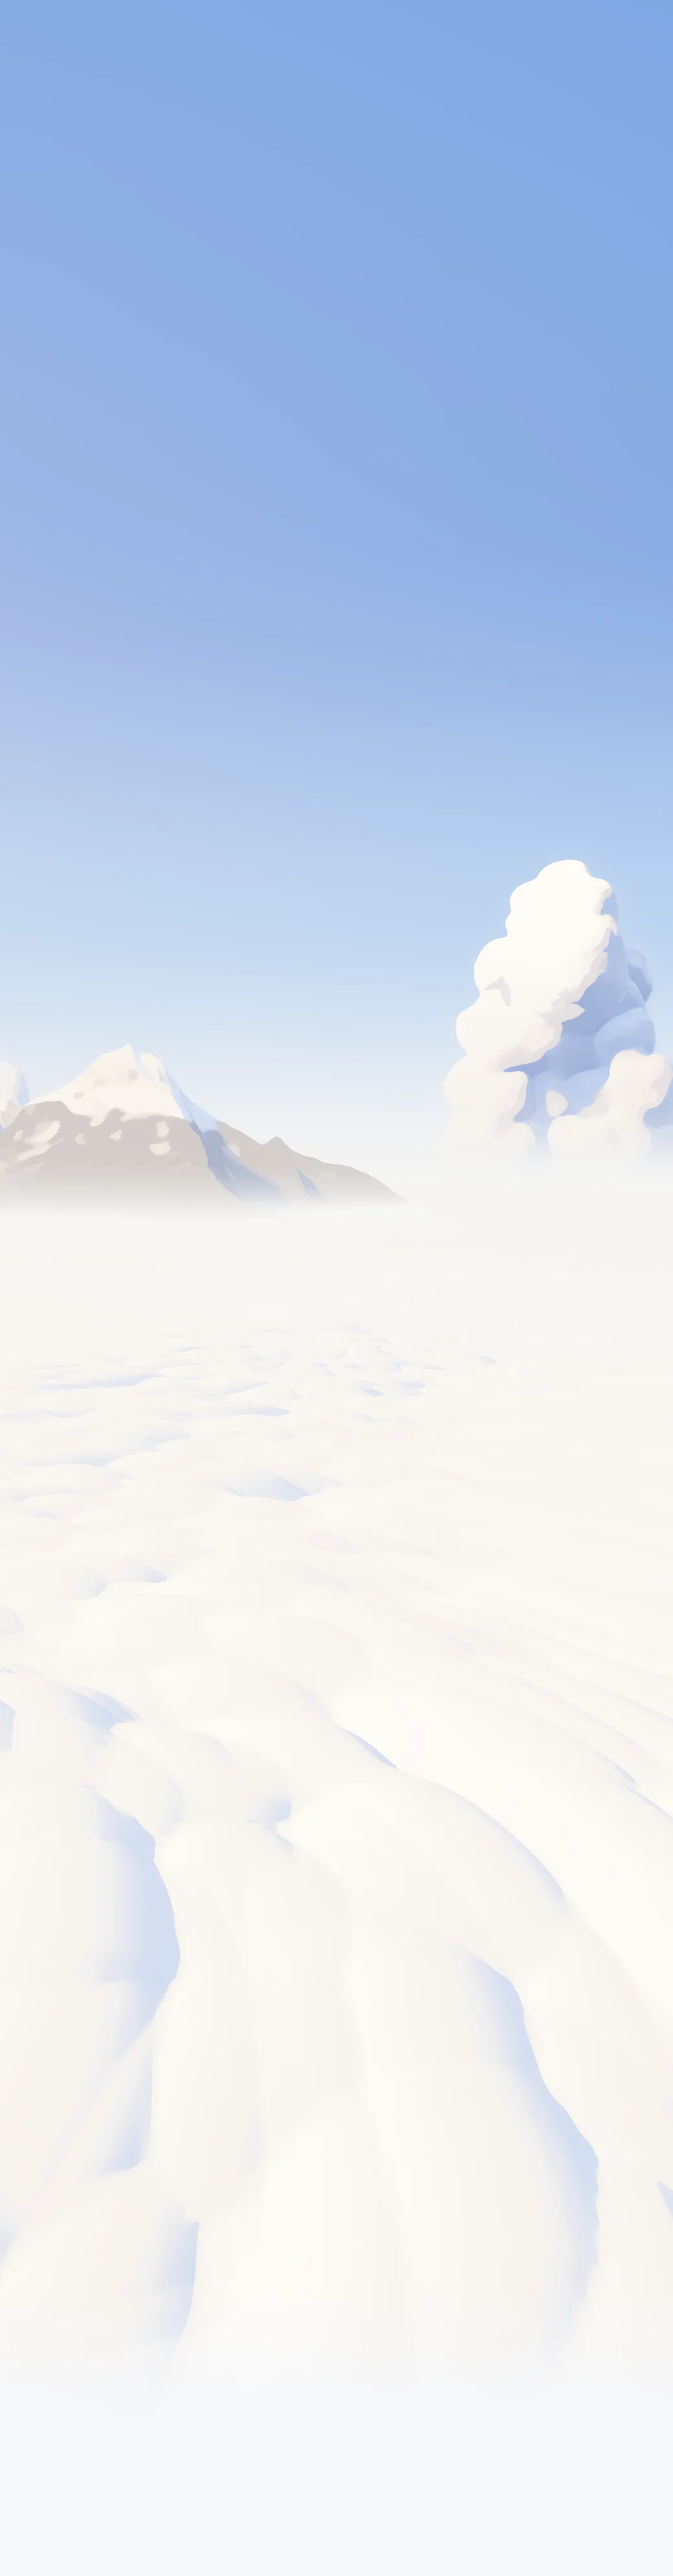
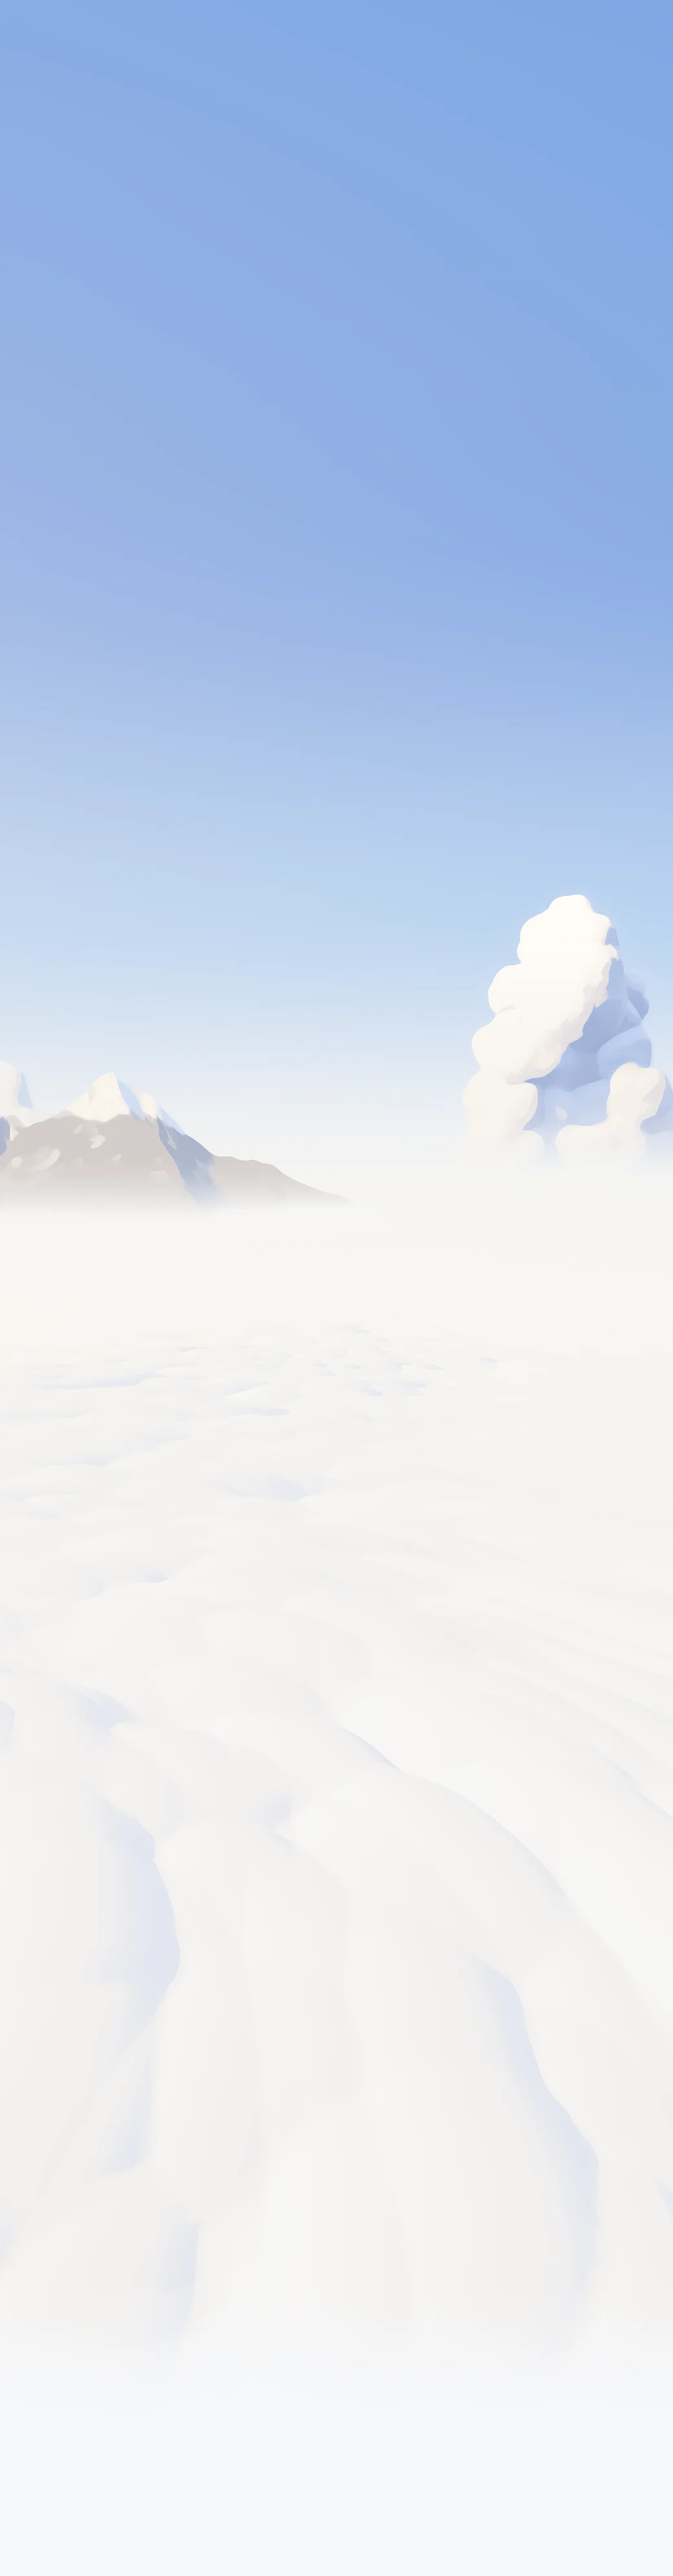
Add production hero: painted sky, glass product composition
Raymarched sky with a brush paint pass, baked to WebP stills at 1x and
2x for desktop, tablet and phone. Live bake only where the still would
upscale; never on software GL. Nav links move into a glass pill.

Claude-Session: https://claude.ai/code/session_01WzuXxBvKBCaxNgCh2gAtvf

diff --git a/landing/js/art/sky.js b/landing/js/art/sky.js
@@ -390,6 +390,7 @@ vec3 seaShade(vec3 p, float t, vec2 w){
   float near = 1.0 - smoothstep(5.0, 24.0, t);
   col = mix(col, mix(litC, P_seaShHi, 0.25), near * 0.55);
   vec3 c = toLin(col);
+  c *= 1.0 + uMood.w;
   float hz = 1.0 - exp(-t * 0.026);
   hz = max(hz, smoothstep(40.0, 100.0, t));
   return mix(c, seaHaze(w), clamp(hz, 0.0, 1.0));
@@ -501,6 +502,10 @@ uniform vec2 uPad;
 uniform float uRadius;
 uniform float uHard;
 uniform float uMix;
+uniform vec2 uOrigin;   // this canvas inside the composition, in pixels from the bottom-left
+uniform vec2 uFull;
+uniform vec3 uFrame;    // aspect, horizon, span
+uniform float uStars;
 out vec4 o;
 
 float hash12(vec2 p){
@@ -576,6 +581,20 @@ void main(){
   }
   vec3 painted = acc.w > 0.0 ? acc.rgb / acc.w : src.rgb;
   vec3 col = mix(src.rgb, painted, uMix);
+  // stars, after the paint so the brush cannot wipe them out; only in open sky
+  if (uStars > 0.0) {
+    vec2 fp = gl_FragCoord.xy + uOrigin;
+    float wy = (fp.y / uFull.y - uFrame.y) * uFrame.z;
+    float cell = uFull.y * 0.011;
+    vec2 g = fp / cell, id = floor(g), f = fract(g);
+    float h = hash12(id + 11.0);
+    if (h > 0.93) {
+      vec2 at = vec2(hash12(id + vec2(5.0, 1.0)), hash12(id + vec2(1.0, 9.0))) * 0.7 + 0.15;
+      float r = length((f - at) * cell) / max(0.6, uFull.y * 0.00055);
+      float lum = exp(-r * r * 1.4) * mix(0.25, 1.0, (h - 0.93) / 0.07);
+      col += vec3(0.93, 0.96, 1.0) * lum * uStars * (1.0 - src.a) * smoothstep(0.8, 4.5, wy);
+    }
+  }
   col += (hash12(gl_FragCoord.xy) - 0.5) / 255.0;
   o = vec4(col, 1.0);
 }`;
@@ -671,6 +690,24 @@ export const LIGHTS = {
       haze: [0.975, 0.975, 0.97], bg: [246 / 255, 248 / 255, 251 / 255], halo: [0.97, 0.965, 0.95],
     },
   },
+  // A starting point for night plates: a high moon from the upper left, a deep blue sky with a
+  // few stars, clouds and snow lit cool. Tune per plate; keep it light enough for white glass.
+  night: {
+    sun: [-0.5, 0.75, -0.4],
+    seaSun: [-0.7, 0.55, 0.1],
+    glow: [-9.0, 1.5, 0.3, 0.55],
+    mood: [0.85, 0.05, 0.05, 0],
+    pal: {
+      skyZen: [0.13, 0.2, 0.4], skyMid: [0.24, 0.33, 0.56], skyHor: [0.5, 0.57, 0.74],
+      skyGlow: [0.56, 0.62, 0.8], skyBand: [0.62, 0.64, 0.78],
+      clLit: [0.76, 0.8, 0.91], clLit2: [0.84, 0.87, 0.95], clHalf: [0.6, 0.63, 0.78],
+      clShUp: [0.42, 0.5, 0.7], clShDn: [0.3, 0.36, 0.55], clRefl: [0.48, 0.52, 0.68], clRim: [0.62, 0.69, 0.86],
+      seaLit: [0.66, 0.71, 0.85], seaLit2: [0.74, 0.79, 0.91], seaShLo: [0.36, 0.43, 0.62], seaShHi: [0.5, 0.57, 0.76],
+      rockLit: [0.45, 0.5, 0.63], rockSh: [0.24, 0.3, 0.46],
+      snowLit: [0.8, 0.85, 0.95], snowSh: [0.45, 0.53, 0.72], snowShUp: [0.55, 0.63, 0.83],
+      haze: [0.58, 0.64, 0.79], bg: [246 / 255, 248 / 255, 251 / 255], halo: [0.6, 0.66, 0.83],
+    },
+  },
 };
 
 /* ====================================================================== compositions */
@@ -678,7 +715,8 @@ export const LIGHTS = {
 // World units: composition height = span, horizon at y = 0, x centred.
 // Cloud lobes are [x, y, r] on the screen plane at the cloud's depth z.
 // Peaks are [screen x, screen height, distance, screen radius, aretes, phase, gully depth, wobble].
-const frame = (width, top, bottom) => ({ aspect: width / (top - bottom), hz: -bottom / (top - bottom), span: top - bottom });
+/** A frame `width` world units wide, from `top` above the horizon to `bottom` below it. */
+export const frame = (width, top, bottom) => ({ aspect: width / (top - bottom), hz: -bottom / (top - bottom), span: top - bottom });
 
 // The same tower and massif appear in every framing, scaled and placed: one world.
 // The tower: a broad base, a body that narrows gently and a cluster of crown heads.
@@ -736,7 +774,7 @@ const phone = {
   sea: [-2.2, 1.5, 0.12],
   paint: 0.0026,
   clouds: [farCloud(-3.7, 0.55, 0.32), tower(2.45, 0.57)],
-  peaks: massif(-2.1, 0.78),
+  peaks: massif(-2.25, 0.62),
 };
 
 export const COMPOSITIONS = { desktop, tablet, phone };
@@ -978,6 +1016,8 @@ export function bakeSky(canvas, comp, opts = {}) {
         gl.uniform1i(q.u('uSrc'), T.scene.unit); gl.uniform1i(q.u('uTfm'), T.tfmA.unit);
         gl.uniform2f(q.u('uPad'), pad, pad); gl.uniform1f(q.u('uRadius'), radius);
         gl.uniform1f(q.u('uHard'), comp.hard ?? 8); gl.uniform1f(q.u('uMix'), comp.paintMix ?? 1);
+        gl.uniform2f(q.u('uOrigin'), origin[0], origin[1]); gl.uniform2f(q.u('uFull'), fullW, fullH);
+        gl.uniform3f(q.u('uFrame'), comp.aspect, comp.hz, comp.span); gl.uniform1f(q.u('uStars'), (light.mood || [0])[0]);
       },
     },
   ];

diff --git a/landing/index.html b/landing/index.html
@@ -164,7 +164,7 @@
                 <div class="s-hero__bk" style="--s: 5; --d: 0.75"><p><b>Jamshed R.</b><span class="ui-status ui-status--waiting"><svg class="i"><use href="assets/icons.svg#hourglass" /></svg>Waiting</span></p><small>14:00 Men's haircut</small></div>
               </div>
               <div class="s-hero__col" data-person="zarina">
-                <div class="s-hero__bk is-done" style="--s: 0.5; --d: 1.5"><p><b>Manizha D.</b><span class="ui-status ui-status--paid"><svg class="i"><use href="assets/icons.svg#check-circle" /></svg>Paid</span></p><small>09:30 Gel manicure</small></div>
+                <div class="s-hero__bk is-done" style="--s: 0; --d: 1.5"><p><b>Manizha D.</b><span class="ui-status ui-status--paid"><svg class="i"><use href="assets/icons.svg#check-circle" /></svg>Paid</span></p><small>09:00 Gel manicure</small></div>
                 <div class="s-hero__bk" style="--s: 2.5; --d: 1.5"><p><b>Dilnoza K.</b><span class="ui-status ui-status--confirmed"><svg class="i"><use href="assets/icons.svg#calendar-check" /></svg>Confirmed</span></p><small>11:30 Gel manicure</small></div>
                 <div class="s-hero__bk" style="--s: 5; --d: 1.5"><p><b>Madina H.</b><span class="ui-status ui-status--waiting"><svg class="i"><use href="assets/icons.svg#hourglass" /></svg>Waiting</span></p><small>14:00 Gel manicure</small></div>
               </div>
@@ -212,6 +212,12 @@
                 <div class="s-hero__bars"><i style="--v: 0.34"></i><i style="--v: 0.62"></i><i style="--v: 0.8"></i><i style="--v: 0.56"></i><i style="--v: 0.7"></i><i style="--v: 0.92"></i><i style="--v: 0.48"></i><i class="is-now" style="--v: 0.3"></i></div>
               </div>
               <div class="s-hero__dash-row"><span class="ui-label">Cash in till</span><b>2,180 TJS</b></div>
+            </div>
+            <div class="s-hero__tabbar">
+              <span class="is-on"><svg class="i"><use href="assets/icons.svg#dashboard" /></svg></span>
+              <span><svg class="i"><use href="assets/icons.svg#calendar" /></svg></span>
+              <span><svg class="i"><use href="assets/icons.svg#users" /></svg></span>
+              <span><svg class="i"><use href="assets/icons.svg#settings" /></svg></span>
             </div>
           </div>
         </div>

diff --git a/src/partials/hero.html b/src/partials/hero.html
@@ -92,7 +92,7 @@
                 <div class="s-hero__bk" style="--s: 5; --d: 0.75"><p><b>Jamshed R.</b><span class="ui-status ui-status--waiting"><svg class="i"><use href="assets/icons.svg#hourglass" /></svg>Waiting</span></p><small>14:00 Men's haircut</small></div>
               </div>
               <div class="s-hero__col" data-person="zarina">
-                <div class="s-hero__bk is-done" style="--s: 0.5; --d: 1.5"><p><b>Manizha D.</b><span class="ui-status ui-status--paid"><svg class="i"><use href="assets/icons.svg#check-circle" /></svg>Paid</span></p><small>09:30 Gel manicure</small></div>
+                <div class="s-hero__bk is-done" style="--s: 0; --d: 1.5"><p><b>Manizha D.</b><span class="ui-status ui-status--paid"><svg class="i"><use href="assets/icons.svg#check-circle" /></svg>Paid</span></p><small>09:00 Gel manicure</small></div>
                 <div class="s-hero__bk" style="--s: 2.5; --d: 1.5"><p><b>Dilnoza K.</b><span class="ui-status ui-status--confirmed"><svg class="i"><use href="assets/icons.svg#calendar-check" /></svg>Confirmed</span></p><small>11:30 Gel manicure</small></div>
                 <div class="s-hero__bk" style="--s: 5; --d: 1.5"><p><b>Madina H.</b><span class="ui-status ui-status--waiting"><svg class="i"><use href="assets/icons.svg#hourglass" /></svg>Waiting</span></p><small>14:00 Gel manicure</small></div>
               </div>
@@ -140,6 +140,12 @@
                 <div class="s-hero__bars"><i style="--v: 0.34"></i><i style="--v: 0.62"></i><i style="--v: 0.8"></i><i style="--v: 0.56"></i><i style="--v: 0.7"></i><i style="--v: 0.92"></i><i style="--v: 0.48"></i><i class="is-now" style="--v: 0.3"></i></div>
               </div>
               <div class="s-hero__dash-row"><span class="ui-label">Cash in till</span><b>2,180 TJS</b></div>
+            </div>
+            <div class="s-hero__tabbar">
+              <span class="is-on"><svg class="i"><use href="assets/icons.svg#dashboard" /></svg></span>
+              <span><svg class="i"><use href="assets/icons.svg#calendar" /></svg></span>
+              <span><svg class="i"><use href="assets/icons.svg#users" /></svg></span>
+              <span><svg class="i"><use href="assets/icons.svg#settings" /></svg></span>
             </div>
           </div>
         </div>

diff --git a/landing/css/sections/hero.css b/landing/css/sections/hero.css
@@ -556,7 +556,7 @@
 /* ---------- notification ---------- */
 .s-hero__note {
   right: 89px;
-  top: 146px;
+  top: 130px;
   z-index: 4;
   width: 336px;
   display: flex;
@@ -594,6 +594,10 @@
   font-weight: 560;
   color: var(--ink-2);
 }
+.s-hero__note-top b,
+.s-hero__note-top span {
+  white-space: nowrap;
+}
 .s-hero__note-name {
   margin-top: 3px;
   font-size: 15px;
@@ -610,7 +614,7 @@
 /* ---------- Telegram reminder ---------- */
 .s-hero__tg {
   right: 137px;
-  top: 470px;
+  top: 452px;
   z-index: 4;
   width: 288px;
   padding: 12px;
@@ -830,6 +834,36 @@
   font-size: 15px;
 }
 
+/* the app's tab bar along the bottom of the screen */
+.s-hero__tabbar {
+  position: absolute;
+  left: 10px;
+  right: 10px;
+  bottom: 12px;
+  display: flex;
+  justify-content: space-around;
+  align-items: center;
+  height: 44px;
+  border-radius: 16px;
+  background: rgba(255, 255, 255, 0.92);
+  box-shadow: var(--shadow-xs);
+  color: var(--ink-3);
+}
+.s-hero__tabbar span {
+  display: grid;
+  place-items: center;
+  width: 34px;
+  height: 34px;
+  border-radius: 11px;
+}
+.s-hero__tabbar .i {
+  font-size: 17px;
+}
+.s-hero__tabbar .is-on {
+  color: var(--accent);
+  background: var(--accent-soft);
+}
+
 /* digits that roll in fixed-width cells */
 .s-hero__odo {
   display: inline-flex;
@@ -1037,19 +1071,26 @@
     --ch: 640;
   }
   .s-hero__win {
-    left: 150px;
-    width: 870px;
+    left: 130px;
+    width: 840px;
+  }
+  .s-hero__phone {
+    width: 190px;
+    border-radius: 34px;
+  }
+  .s-hero__phone .ui-phone__screen {
+    border-radius: 28px;
   }
   .s-hero__tg {
     display: none;
   }
   .s-hero__note {
-    right: 0;
-    top: 150px;
-    width: 268px;
+    right: 8px;
+    top: 130px;
+    width: 300px;
   }
   .s-hero__comp::before {
-    left: 190px;
+    left: 170px;
   }
 }
 
